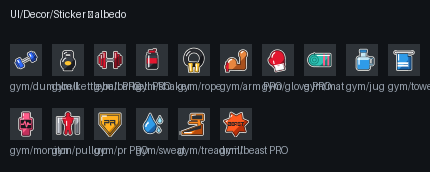
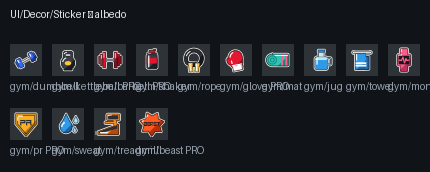
stickers: Gym — drop arm and pullup
Claude-Session: https://claude.ai/code/session_01N4bcMSvyDHWYCQx8xDbNoW

diff --git a/Tools/sticker_packs/gym.py b/Tools/sticker_packs/gym.py
@@ -1,5 +1,5 @@
 PACK = ("gym", "Gym", False)
-PRO_IDS = {"arm", "glove", "barbell", "kettlebell", "beast", "pr"}
+PRO_IDS = {"glove", "barbell", "kettlebell", "beast", "pr"}
 
 IRON, IRONS = "#3A3F47", "#1B1D22"
 STEEL = "#C9CED6"
@@ -80,20 +80,6 @@ def _():
     return [rope, shade, handles, shine]
 
 
-@sticker("gym", "arm", "Flexed arm", ["#E8873F", "#A8501C", RED, WHITE], ink=1.0)
-def _():
-    with rotated(0.0, 0.0, 0.0, 0.1, -0.02):
-        upper = taper(-0.72, -0.5, 0.4, -0.5, 0.2, 0.22)
-        dome = inter(circle(-0.4, -0.2, 0.36), -Y - 0.5)
-        forearm = taper(0.42, -0.5, 0.42, 0.26, 0.23, 0.21)
-        fist = circle(0.42, 0.44, 0.3)
-        body = smin(U(upper, circle(0.42, -0.5, 0.23), forearm, fist), dome, 0.1)
-        sleeve = inter(box(-0.74, -0.5, 0.1, 0.34), U(body, box(-0.74, -0.5, 0.1, 0.34)))
-        shade = _lowright(body, 0.3)
-        shine = _in(body, arc(-0.4, -0.2, 0.26, math.radians(100), math.radians(165), 0.055), seg(0.3, 0.56, 0.42, 0.66, 0.045))
-    return [body, shade, sleeve, shine]
-
-
 @sticker("gym", "glove", "Boxing glove", [RED, REDS, WHITE, WHITE], ink=1.0)
 def _():
     with rotated(0.2):
@@ -149,17 +135,6 @@ def _():
     screen = sub(box(0, 0, 0.4, 0.32, 0.08), pulse)
     shine = _in(body, seg(-0.42, 0.38, -0.2, 0.38, 0.035), seg(-0.2, 0.84, -0.2, 0.62, 0.03))
     return [body, shade, screen, shine]
-
-
-@sticker("gym", "pullup", "Pull-up bar", [STEEL, "#7A808A", RED, WHITE], ink=1.0)
-def _():
-    posts = U(box(-0.7, -0.1, 0.13, 0.62, 0.05), box(0.7, -0.1, 0.13, 0.62, 0.05))
-    body = U(posts, box(0, 0.4, 0.8, 0.12, 0.05))
-    shade = _lowright(body, 0.45)
-    man = U(circle(0, 0.7, 0.17), taper(0, 0.34, 0, -0.3, 0.3, 0.2), seg(-0.3, 0.4, -0.24, 0.1, 0.1), seg(0.3, 0.4, 0.24, 0.1, 0.1),
-            seg(-0.1, -0.3, -0.16, -0.68, 0.11), seg(0.1, -0.3, 0.16, -0.68, 0.11), circle(-0.3, 0.4, 0.13), circle(0.3, 0.4, 0.13))
-    shine = U(_in(body, seg(-0.7, 0.5, -0.7, 0.1, 0.03), seg(-0.5, 0.44, -0.2, 0.44, 0.025)), _in(man, seg(-0.1, 0.2, -0.1, -0.1, 0.035)))
-    return [body, shade, man, shine]
 
 
 @sticker("gym", "pr", "PR badge", ["#FFB020", "#C27A0A", "#2B2E33", WHITE], ink=1.0)
